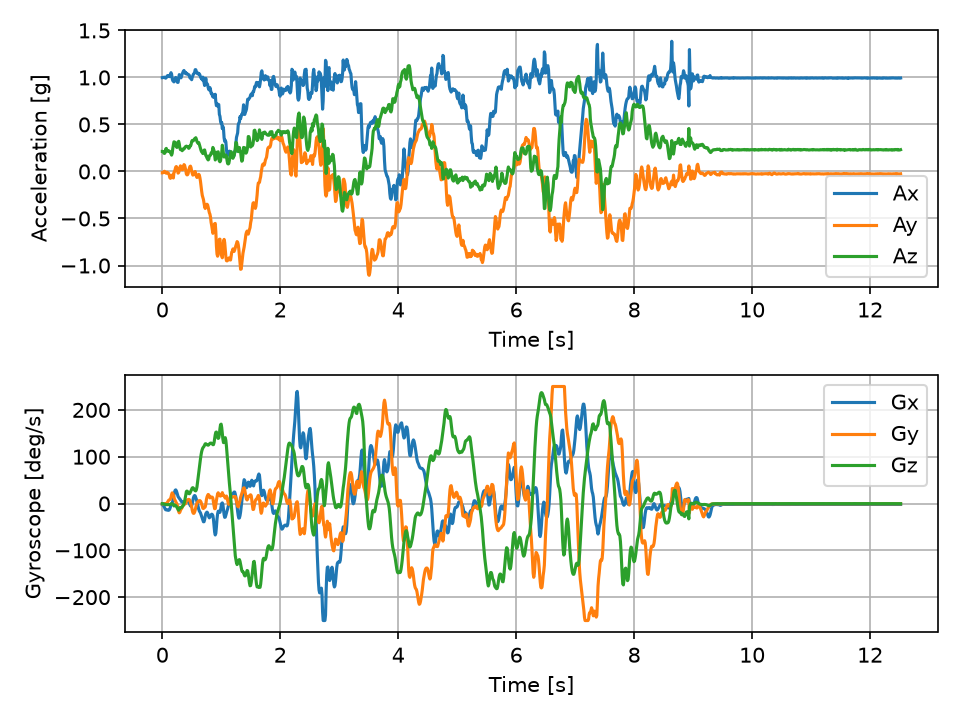
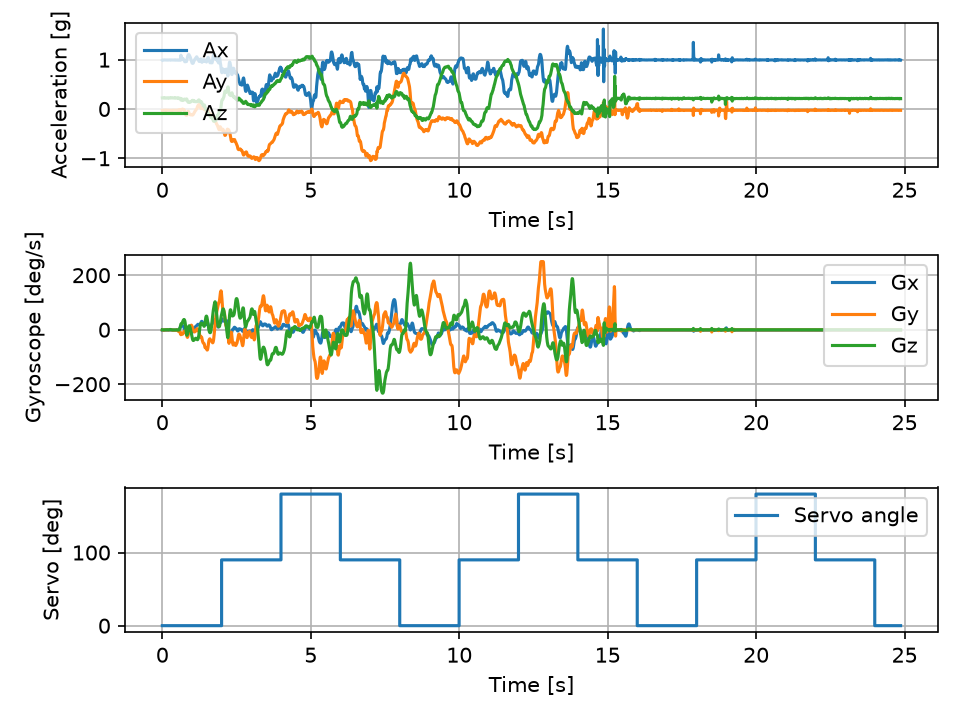
optimized servo timing loop and update validation plot

Changed region(s): [[0.0312, 0.0306, 0.9688, 0.9167]]

diff --git a/firmware/main/main.c b/firmware/main/main.c
@@ -62,33 +62,33 @@ void app_main(void) {
 
     ESP_LOGI(TAG, "Successful servo initialization");
 
-    servo_set_angle(0.0f);
+    servo_angle(0.0f);
 
     float test_angles[] = {0.0f, 90.0f, 180.0f, 90.0f};
     int angle_i = 0;
-    int loop_count = 0;
+    uint32_t last_servo_ms = (uint32_t)(esp_timer_get_time() / 1000);
 
     while (1) {
 
+        uint32_t time_ms = (uint32_t)(esp_timer_get_time() / 1000);
         status_mpu650 = mpu6050_read_raw(mpu_device, &sensor_data);
 
-        if(loop_count >= 200) {
-            loop_count = 0;
+        if ((time_ms - last_servo_ms) >= 2000) {
+            last_servo_ms += 2000;
             ++angle_i;
             if (angle_i >= 4) {
                 angle_i = 0;
             }
-            servo_set_angle(test_angles[angle_i]);
+            servo_angle(test_angles[angle_i]);
         }
 
         if (status_mpu650 == ESP_OK) {
-            uint32_t time_ms = (uint32_t)(esp_timer_get_time() / 1000);
             printf("DATA,%lu,%d,%d,%d,%d,%d,%d,%d,%.1f\n", (unsigned long)time_ms, sensor_data.accel_x, sensor_data.accel_y, sensor_data.accel_z, sensor_data.temp, sensor_data.gyro_x, sensor_data.gyro_y, sensor_data.gyro_z, test_angles[angle_i]);
         } else {
             ESP_LOGE(TAG, "Failed MPU6050 read");
         }
 
-        loop_count++;
+
         vTaskDelay(pdMS_TO_TICKS(10));
     }
 }

diff --git a/README.md b/README.md
@@ -54,7 +54,9 @@ The ESP32 reads the MPU-6050 at 100 Hz (10 ms loop) over I2C at 400 kHz. Because
 
 ![IMU 100Hz Test](docs/imu_100hz_validation.png)
 
-During the first ~9 seconds of this test, the breadboard was tilted and rotated by hand with a few taps on the desk around t = 8.5s. Near t = 6.7s, Gy hits the +250 deg/s sensor limit and clips. After 9.5s, the board was left flat on the desk. Signal noise remains very low, and Az stays around 0.23g because the module sits slightly tilted on the breadboard.
+First ~15.5s: tilting and rotating the breadboard by hand (gyro clips at ±250 deg/s around 8.3s and 12.8s). 
+After 15.5s: board left flat on the desk while the servo steps every 2s. 
+The small spikes around 16s–19.5s are from tapping the desk and breadboard. `Az` stays around 0.23g at rest since the sensor module sits slightly crooked on the pins.
 
 ## How to run
 
